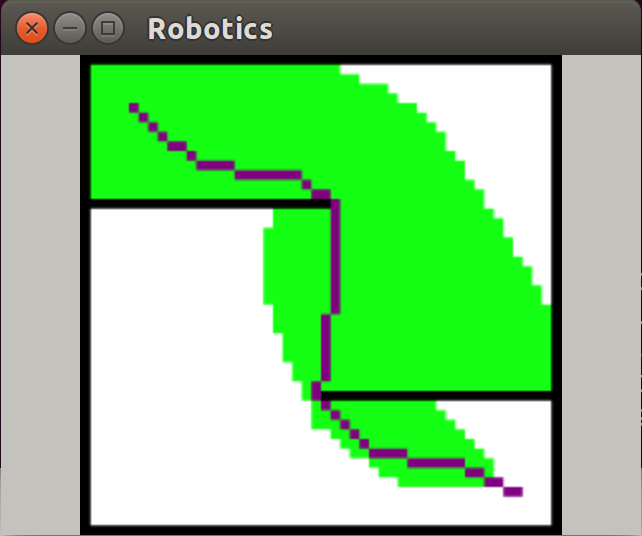
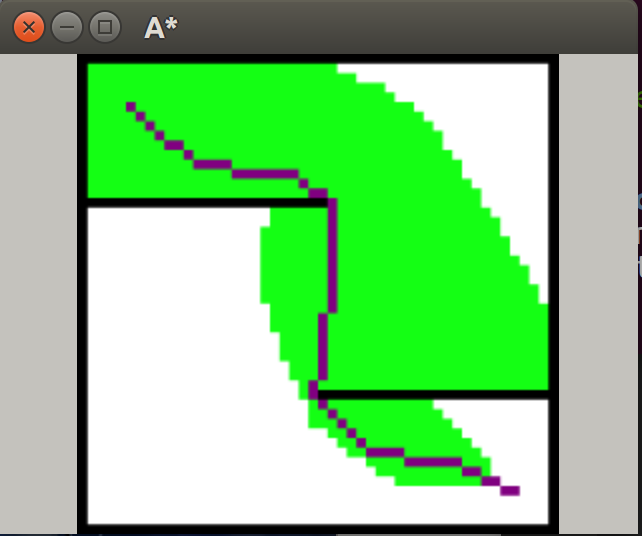
Refining README & adding Djikstra

diff --git a/README.md b/README.md
@@ -7,6 +7,8 @@
 - A* Planning\
   Simple A* planning with global obstacle map.
   ![](./results/astar.png)
+  Compare to Djikstra:
+  ![](./results/djikstra.png)
 
 - PRM\
   Simple PRM planning with global obstacle map.
